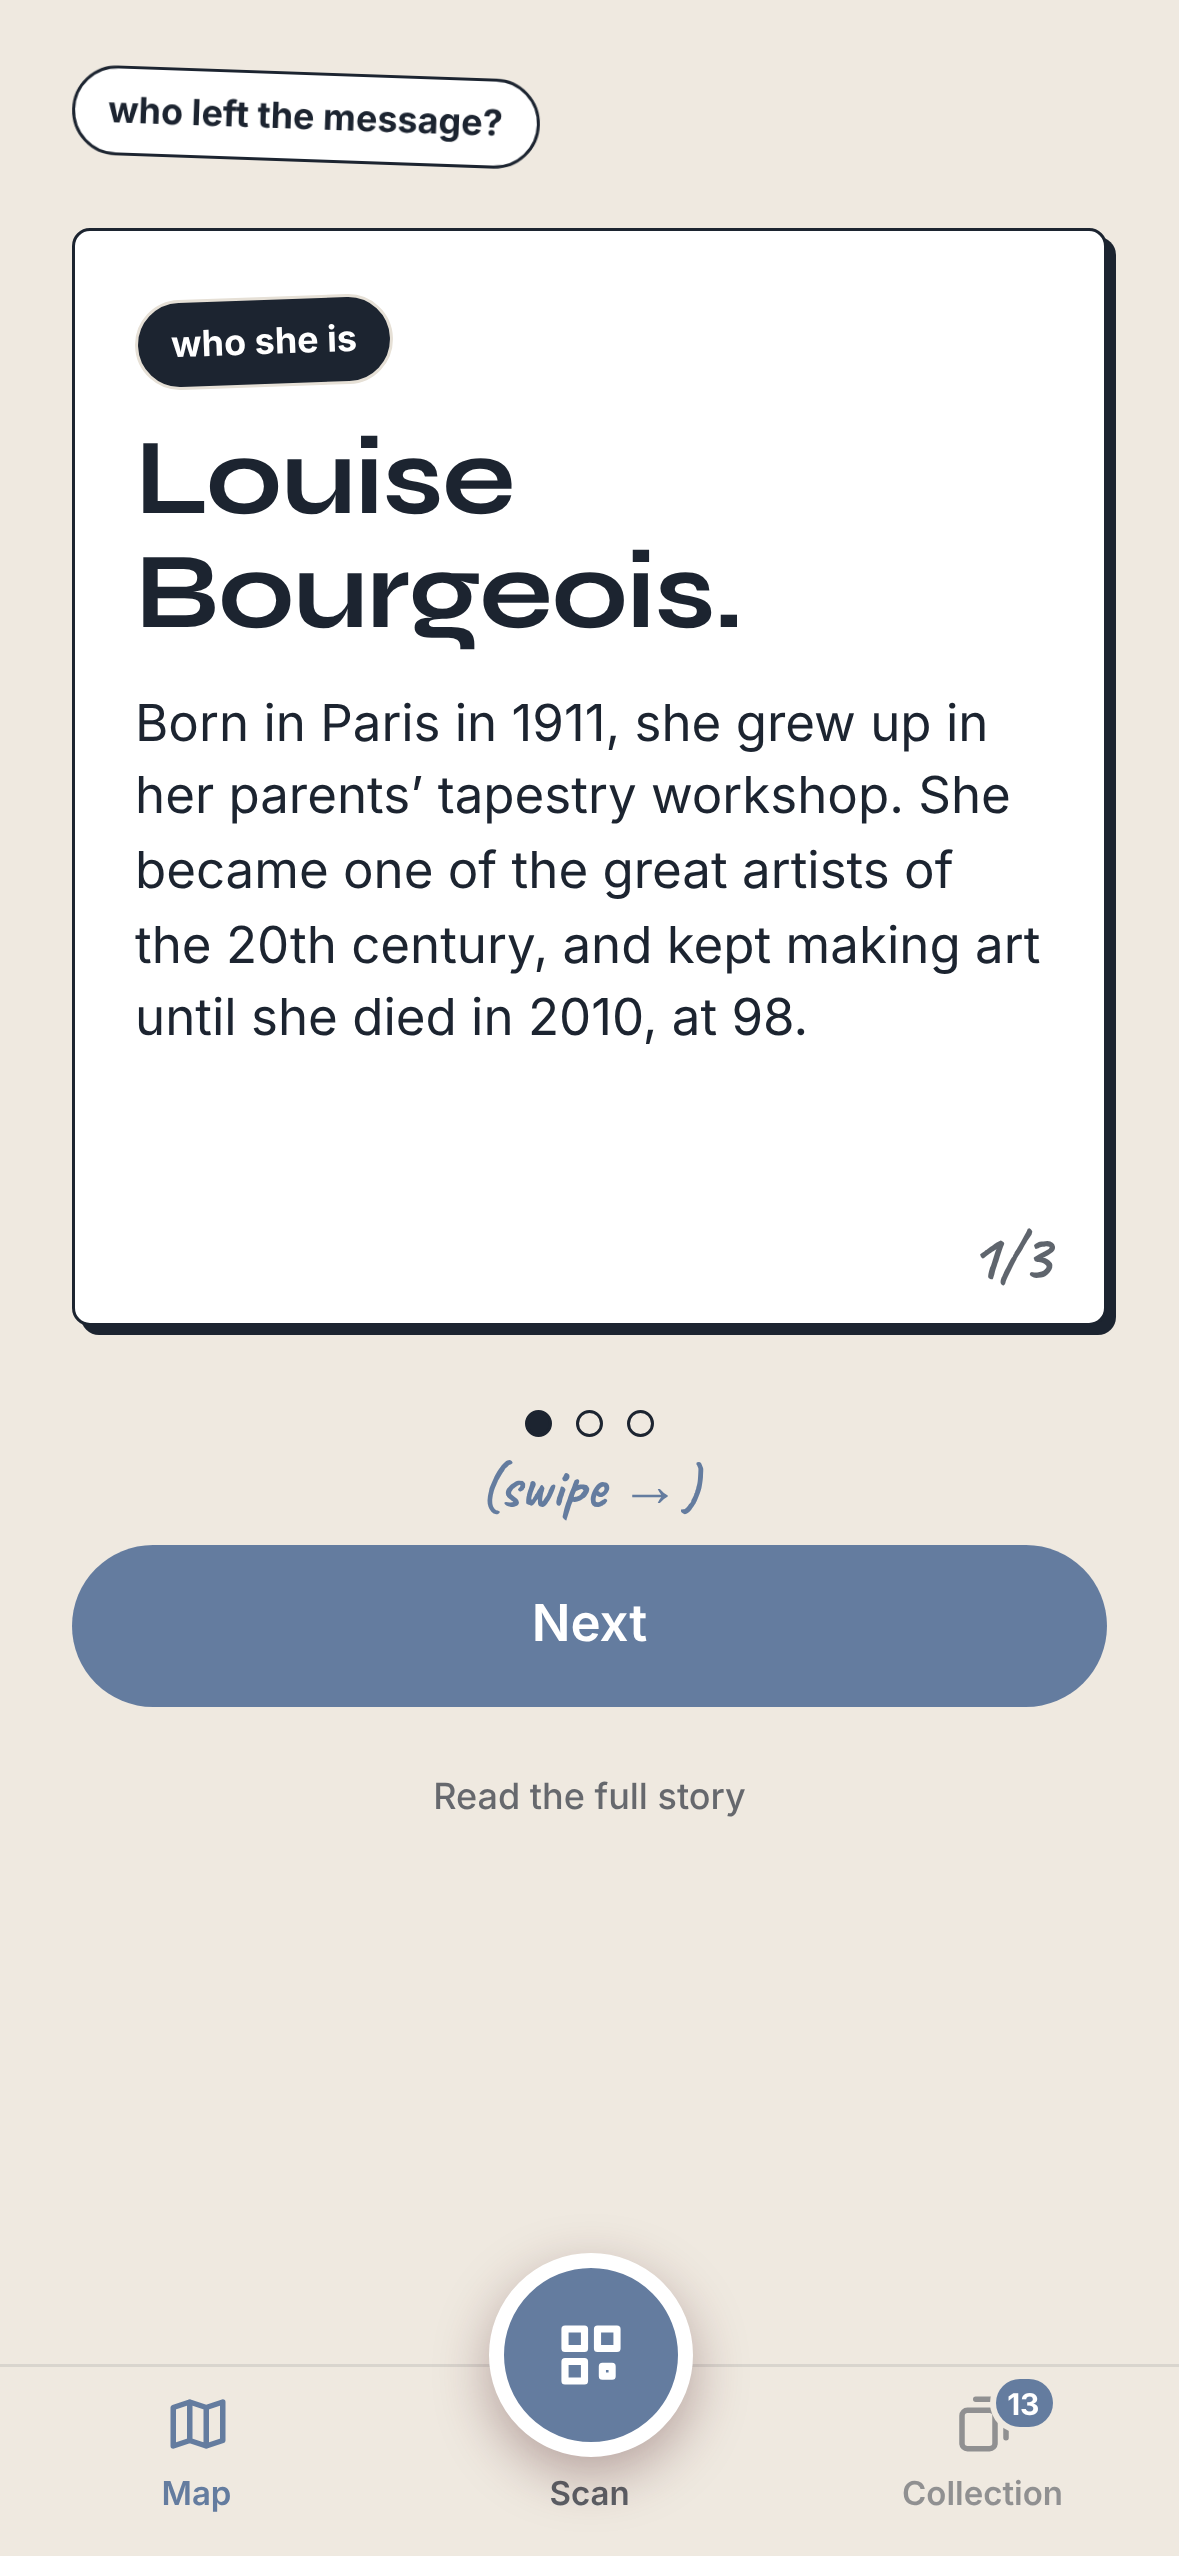
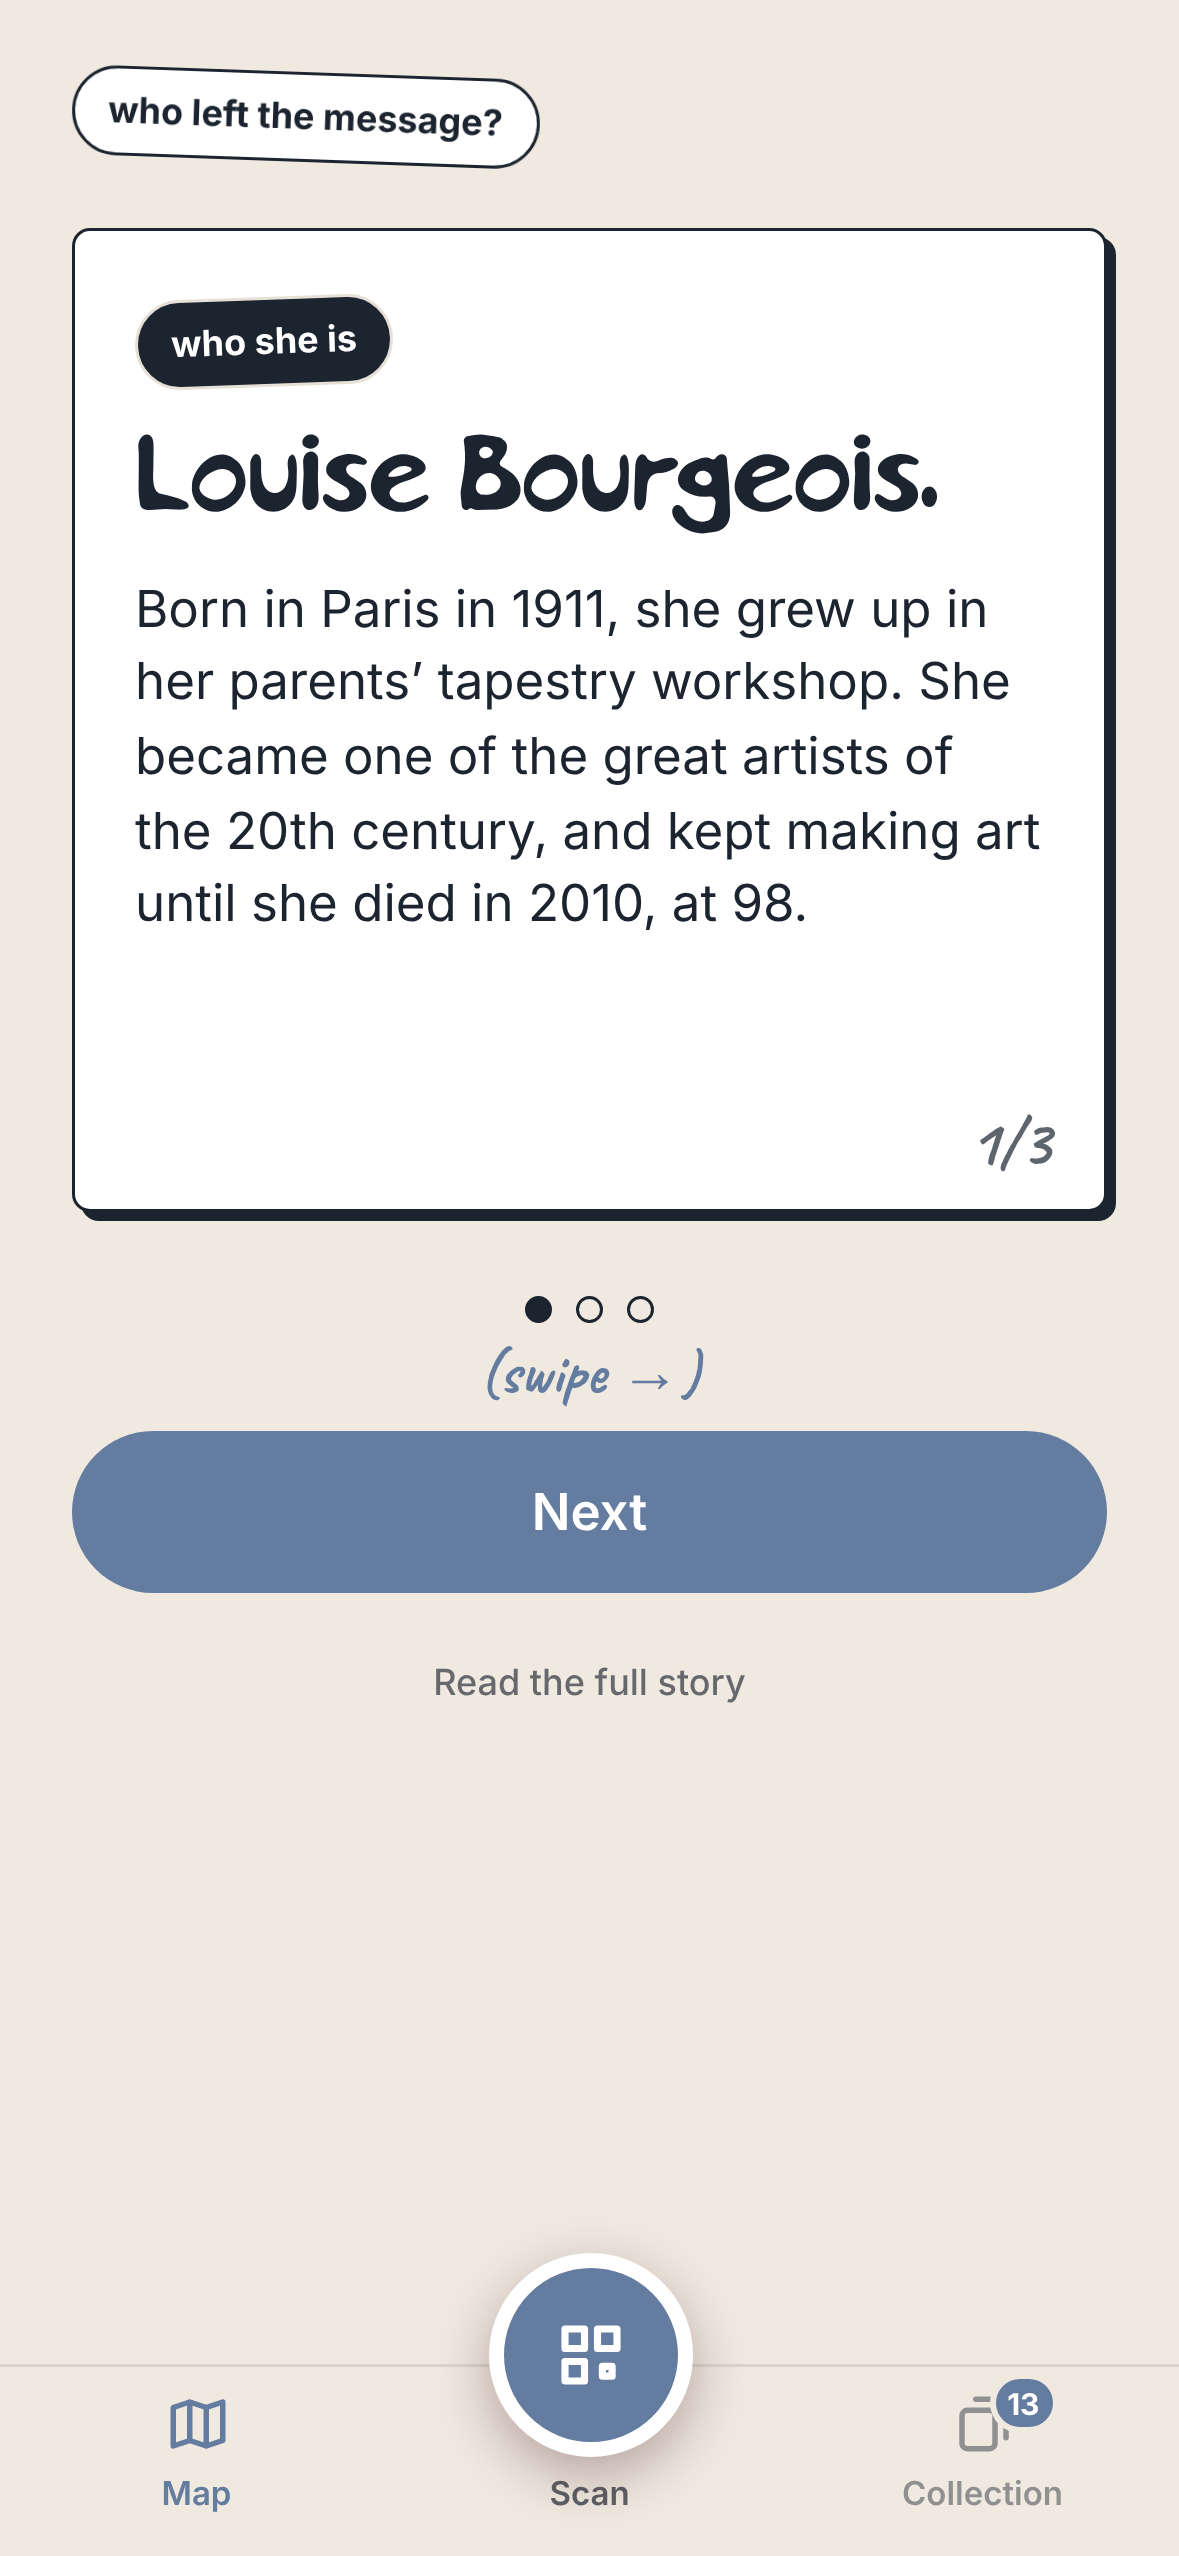
Update Inside Out case study

Changed region(s): [[0.0611, 0.4327, 0.9466, 0.7109], [0.0916, 0.1545, 0.8855, 0.4018], [0.7939, 0.3709, 0.8244, 0.4018]]

diff --git a/src/content/projects/inside-out.ts b/src/content/projects/inside-out.ts
@@ -5,7 +5,7 @@ const insideOut: CaseStudy = {
   title: "Inside Out",
   summary:
     "A mystery game that turns Antwerp into a book: solve riddles, walk to real places and collect torn-out pages of a Louise Bourgeois artwork, all the way to the KMSKA.",
-  tags: ["Location-based game", "Mobile web app", "UX/UI Design"],
+  tags: ["Game", "Web App", "UX/UI Design"],
   cover: {
     label: "Inside Out",
     file: "mockup.png",
@@ -159,7 +159,7 @@ const insideOut: CaseStudy = {
         weight: 700,
         size: 36,
         sample: "Inside Out",
-        note: "Title font. Shown here in Syne Bold, the font the app falls back to.",
+        note: "A brush font, also used on the poster. Shown here in Syne Bold, as Pra Bono isn't available as a web font.",
       },
       { role: "Body text", spec: "Inter", font: "inter", weight: 400, size: 16, sample: "The city is a book." },
     ],
